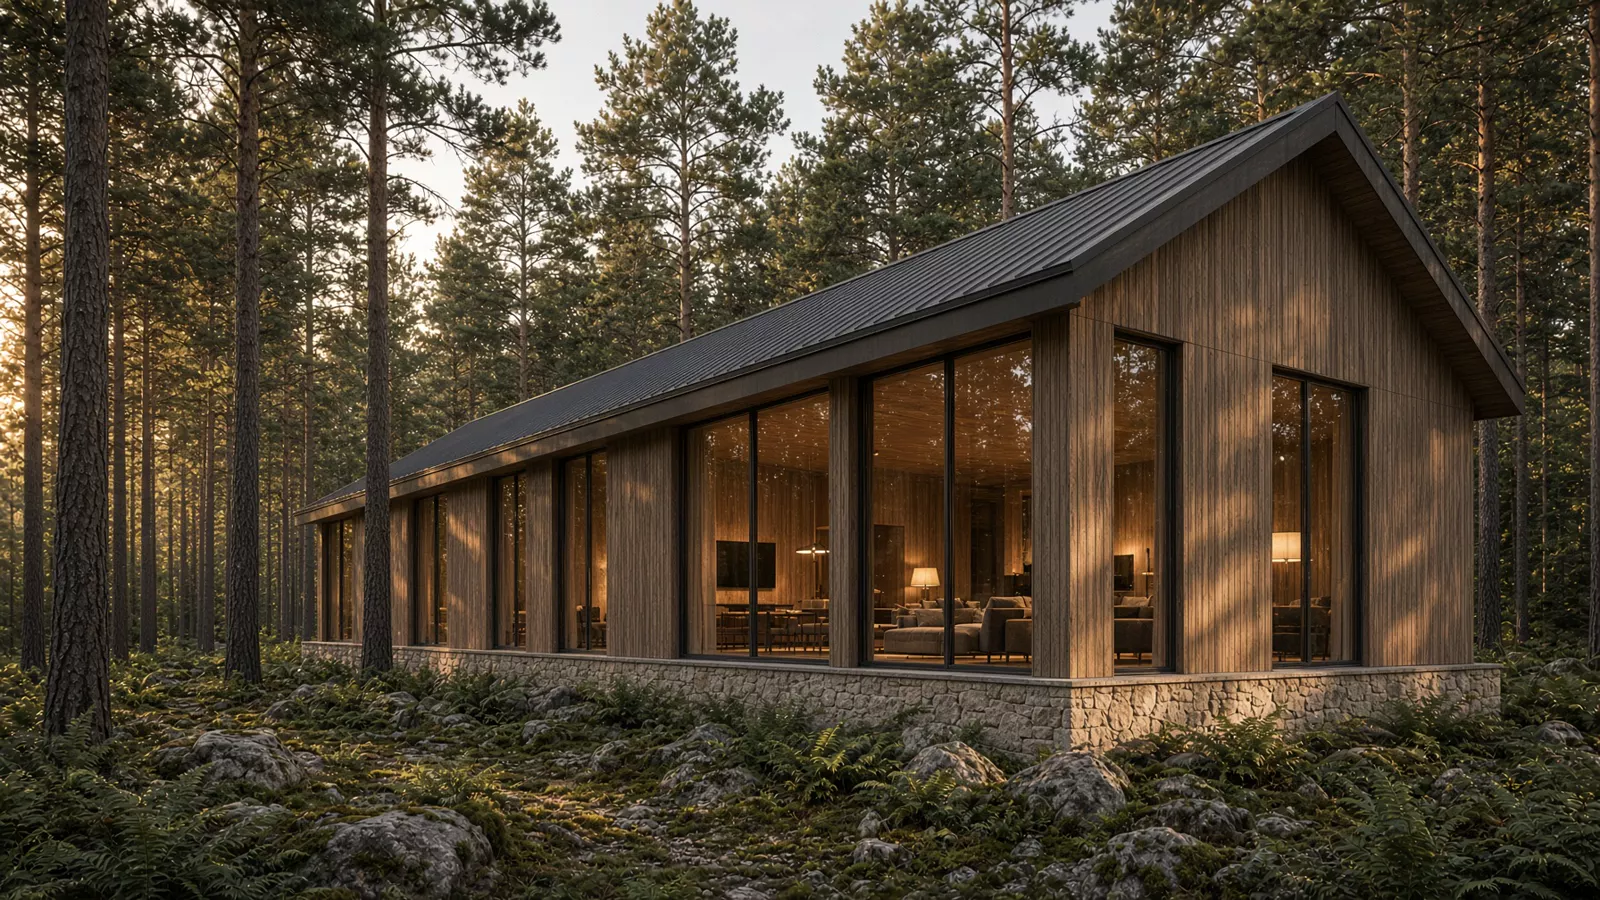
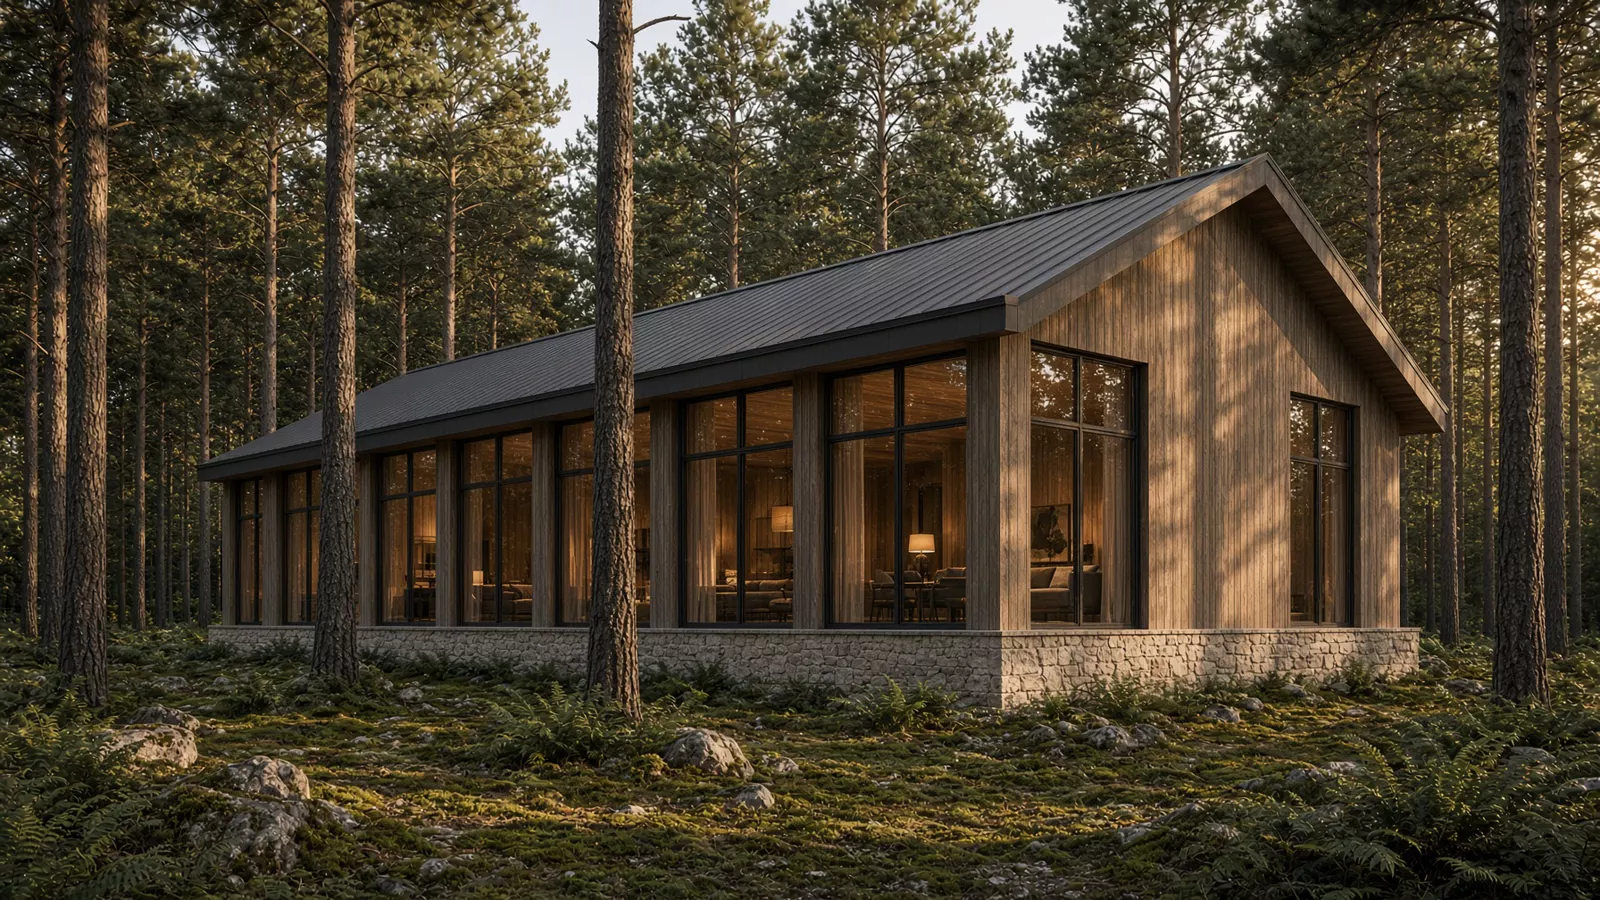
True 360 orbit: 8 identity-locked headings, then settle on window

diff --git a/tour.html b/tour.html
@@ -7,7 +7,7 @@
 <meta name="theme-color" content="#0B0B0C"/>
 <link rel="icon" type="image/svg+xml" href="favicon.svg"/>
 <link rel="preload" as="image" href="images/orbit-0.webp"/>
-<link rel="preload" as="image" href="images/orbit-3.webp"/>
+<link rel="preload" as="image" href="images/orbit-6.webp"/>
 <link rel="preload" as="video" href="videos/window.mp4"/>
 <link rel="preconnect" href="https://fonts.googleapis.com"/>
 <link rel="preconnect" href="https://fonts.gstatic.com" crossorigin/>
@@ -57,7 +57,7 @@ h3{font-family:var(--serif);font-weight:400;font-size:clamp(32px,5vw,60px);margi
       </div>
     </div>
     <div class="orbit-stage" id="orbit"></div>
-    <video class="dive-film" id="dive" muted playsinline preload="auto" poster="images/orbit-3.webp"><source src="videos/window.mp4" type="video/mp4"/></video>
+    <video class="dive-film" id="dive" muted playsinline preload="auto" poster="images/orbit-6.webp"><source src="videos/window.mp4" type="video/mp4"/></video>
     <div id="rooms"></div>
     <div class="orbit-copy" id="orbitCopy">
       <span class="eyebrow" id="orbitEye">Облёт дома</span>
@@ -78,7 +78,7 @@ h3{font-family:var(--serif);font-weight:400;font-size:clamp(32px,5vw,60px);margi
   </div>
 </section>
 <script>
-const facades=[0,1,2,3].map(i=>({img:`images/orbit-${i}.webp`}));
+const facades=[0,1,2,3,4,5,6,7].map(i=>({img:`images/orbit-${i}.webp`}));
 const rooms=[
   {p:"Гостиная",t:"Очаг",c:"Вечером огонь и лес за стеклом — будто сидите на опушке, только тепло.",img:"images/living.webp",lq:"images/living.lq.webp"},
   {p:"Кухня",t:"Ритм утра",c:"Камень острова холодный на ладонь. Завтрак — и уже виден двор.",img:"images/kitchen.webp",lq:"images/kitchen.lq.webp"},
@@ -112,8 +112,8 @@ function shotPair(progress,count,hold){
 }
 function sampleTour(t,n){
   const x=clamp01(t); let yaw,dolly,scale,layer;
-  if(x<=0.26){const u=smootherstep(x/0.26); yaw=u*270; dolly=u*0.04; scale=1+u*0.03; layer=0;}
-  else if(x<=0.32){const u=smootherstep((x-0.26)/0.06); yaw=270; dolly=0.04+u*0.1; scale=1.03+u*0.04; layer=0;}
+  if(x<=0.26){const u=smootherstep(x/0.26); yaw=u*360; dolly=u*0.04; scale=1+u*0.03; layer=0;}
+  else if(x<=0.32){const u=smootherstep((x-0.26)/0.06); yaw=360-u*90; dolly=0.04+u*0.1; scale=1.03+u*0.04; layer=0;}
   else if(x<=0.42){const u=smootherstep((x-0.32)/0.1); yaw=270; dolly=0.14+u*0.72; scale=1.07+u*0.1; layer=u;}
   else if(x<=0.5){const u=smootherstep((x-0.42)/0.08); yaw=270; dolly=0.86+u*0.14; scale=1.17-u*0.12; layer=1+u;}
   else {yaw=270; dolly=1; const pair=shotPair((x-0.5)/0.5,n,0.72); layer=2+pair.a+pair.mix; scale=1.04+pair.mix*0.04;}
